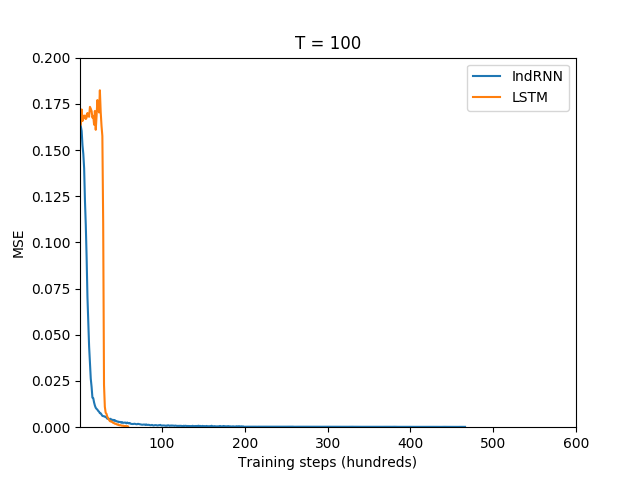
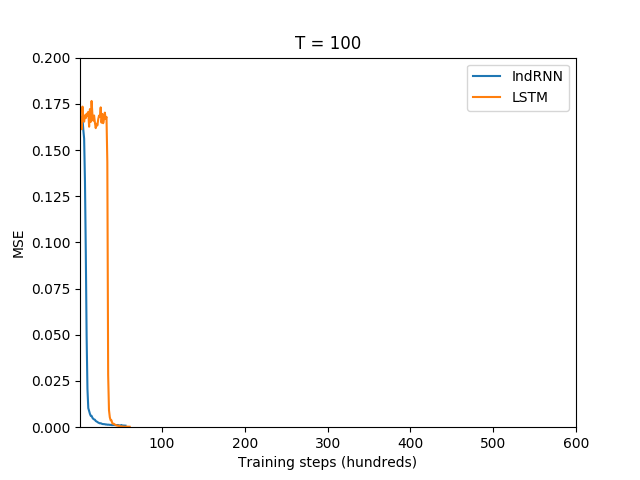
Update addition problem figures and description

Changed region(s): [[0.125, 0.1875, 0.7188, 0.9062]]

diff --git a/examples/addition_rnn.py b/examples/addition_rnn.py
@@ -2,7 +2,7 @@
 
 The addition problem is stated in https://arxiv.org/abs/1803.04831. The
 hyper-parameters are taken from that paper as well. The network should converge
-to a MSE around zero after 1500-20000 steps, depending on the number of time
+to a MSE around zero after 1000-20000 steps, depending on the number of time
 steps.
 """
 import tensorflow as tf

diff --git a/README.md b/README.md
@@ -31,8 +31,6 @@ output, state = tf.nn.dynamic_rnn(cell, input_data, dtype=tf.float32)
 See [examples/addition_rnn.py](https://github.com/batzner/indrnn/blob/master/examples/addition_rnn.py) for a script reproducing the "Adding Problem" from the paper. Below are the results reproduced with the `addition_rnn.py` code.
 
 ![https://github.com/batzner/indrnn/raw/master/img/addition/TAll.png](https://github.com/batzner/indrnn/raw/master/img/addition/TAll.png)
-
-For 100, 500 and 1000 time steps, the behavior is similar to Figure 2 in the paper. For 5000 time steps the IndRNN does not converge. My best guess is that this is due to different initialization values for the recurrent, input and softmax weights. These are not mentioned in the paper and have been found to [make a big difference](https://github.com/batzner/indrnn/issues/1).
  
 More experiments, such as Sequential MNIST, will follow in the next days.
 
